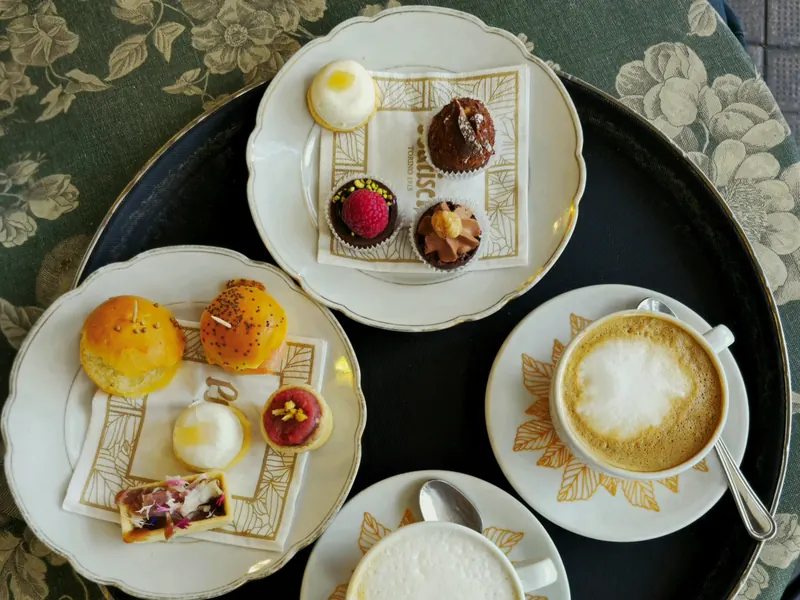
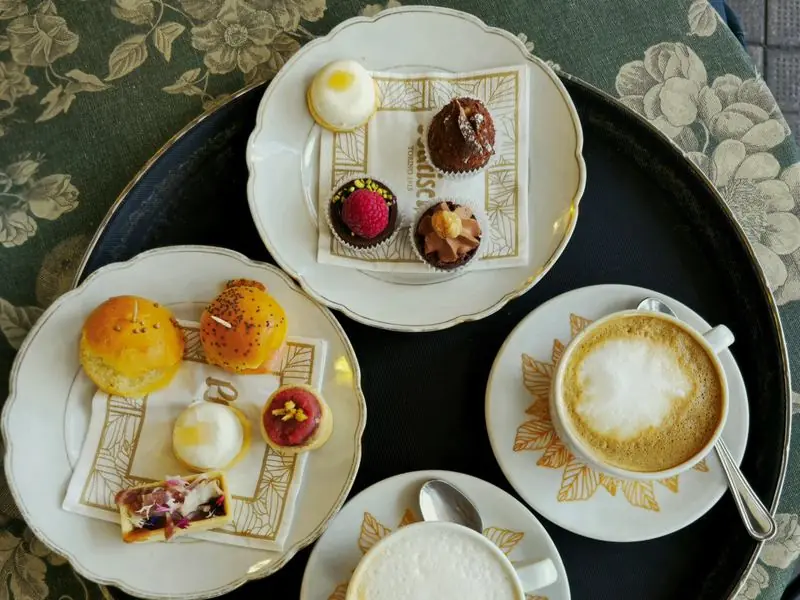
Images: 1200 px Galleria Subalpina, lighter WebP files
- New galleria-subalpina-1200.webp (171 KB) and .jpg; most phones (360 px
  at 3x) now load it instead of the 1600 px file: 312 KB -> 171 KB.
- 1600 px WebP re-encoded from the JPEG original at quality 75:
  312 KB -> 281 KB. calice.webp 55 -> 45 KB, colazione.webp 68 -> 55 KB.
- Encoded with Python/Pillow from the JPEG originals; no visible
  difference at 100%. 800 px file and JPEG fallbacks unchanged.

Claude-Session: https://claude.ai/code/session_019qNAeZ1DoX7giPURYmG5iM

diff --git a/prova sito Ospite 3/sito/prenotazioni-dirette-torino.html b/prova sito Ospite 3/sito/prenotazioni-dirette-torino.html
@@ -48,8 +48,8 @@
 
   <div class="apertura-foto">
     <picture>
-      <source type="image/webp" srcset="images/galleria-subalpina-800.webp 800w, images/galleria-subalpina.webp 1600w" sizes="100vw">
-      <img src="images/galleria-subalpina.jpg" srcset="images/galleria-subalpina-800.jpg 800w, images/galleria-subalpina.jpg 1600w" sizes="100vw" width="1600" height="1200" decoding="async" alt="La Galleria Subalpina a Torino, con il tetto in vetro">
+      <source type="image/webp" srcset="images/galleria-subalpina-800.webp 800w, images/galleria-subalpina-1200.webp 1200w, images/galleria-subalpina.webp 1600w" sizes="100vw">
+      <img src="images/galleria-subalpina.jpg" srcset="images/galleria-subalpina-800.jpg 800w, images/galleria-subalpina-1200.jpg 1200w, images/galleria-subalpina.jpg 1600w" sizes="100vw" width="1600" height="1200" decoding="async" alt="La Galleria Subalpina a Torino, con il tetto in vetro">
     </picture>
   </div>
   <section aria-labelledby="dove-titolo">
